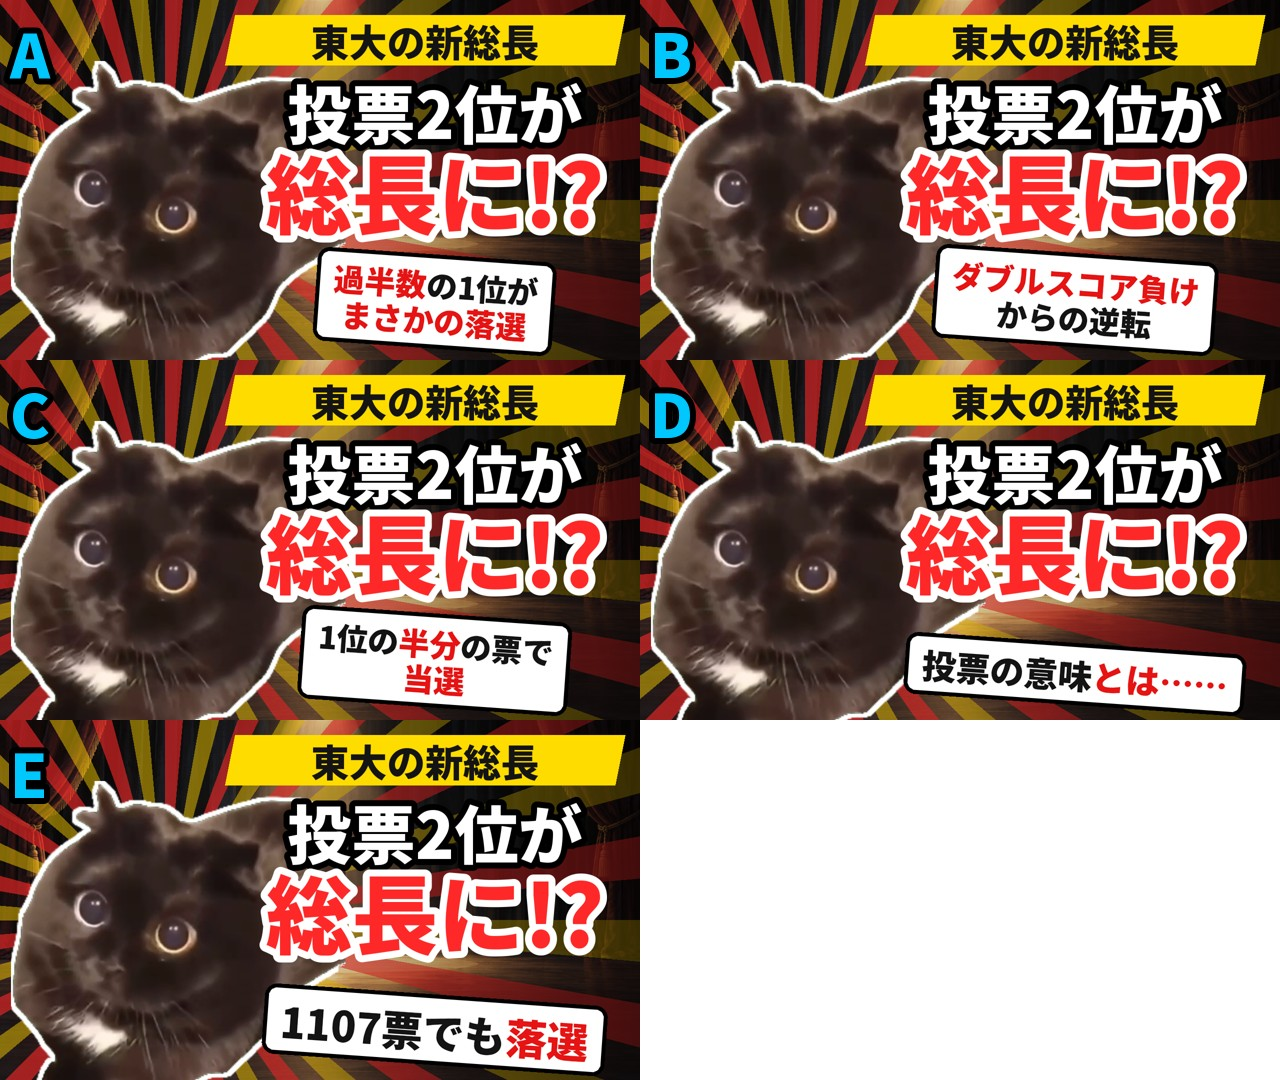
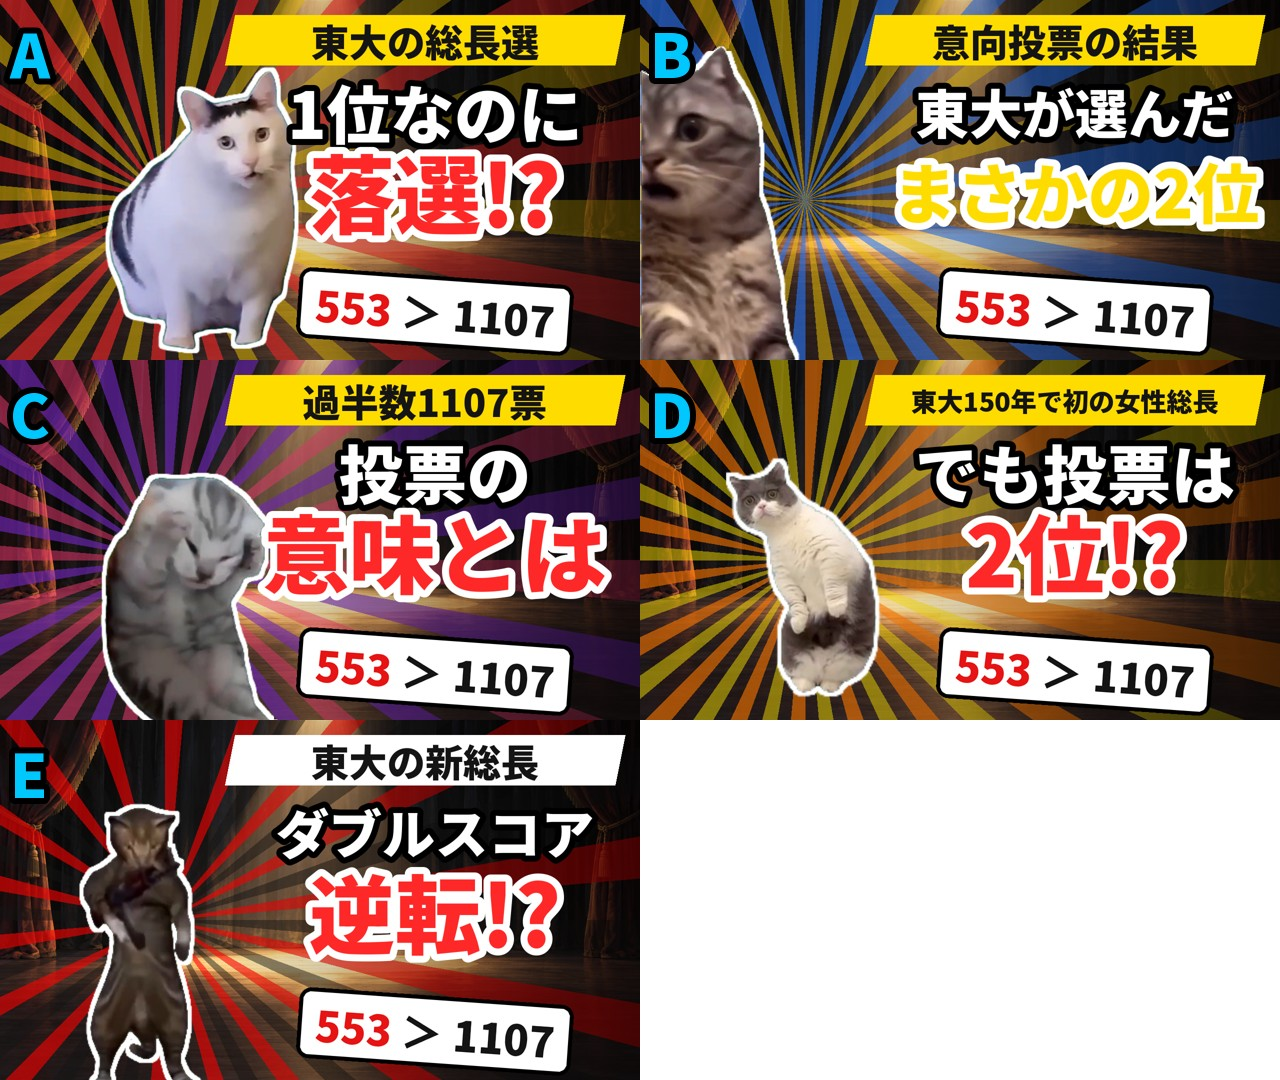
catmeme: 1本目のサムネ別案（553＞1107はそのまま、猫・文言・色を変えた5案）
Claude-Session: https://claude.ai/code/session_011g9CsrfFD5YswfNSvNDW39

diff --git a/catmeme/make_thumb_01.py b/catmeme/make_thumb_01.py
@@ -50,7 +50,9 @@ def text(d, xy, s, size, fill, stroke, stroke_fill, anchor="la"):
 RED = (230, 20, 20)
 
 
-def main(badge_parts=(("553", 1), (" ＞ ", 0), ("1107", 0)), out=OUT):
+def main(badge_parts=(("553", 1), (" ＞ ", 0), ("1107", 0)), out=OUT, cat=("surprise_big_pupils_cat", 0.6, False),
+         band="東大の新総長", line1="投票2位が", line2="総長に!?", ray_cols=((255, 40, 40), (255, 210, 0)),
+         line2_color=(255, 40, 40), band_color=(255, 220, 0), cat_left=False):
     bg = Image.open(os.path.join(HERE, "backgrounds", "01_todai", "bg06_spotlight.png")).convert("RGB").resize((W, H))
     img = bg.convert("RGBA")
     # 集中線（赤と黄色の放射）
@@ -61,7 +63,7 @@ def main(badge_parts=(("553", 1), (" ＞ ", 0), ("1107", 0)), out=OUT):
         a0 = np.deg2rad(i * 10)
         a1 = np.deg2rad(i * 10 + 5)
         r = 1600
-        col = (255, 40, 40, 150) if i % 2 else (255, 210, 0, 120)
+        col = (*ray_cols[0], 150) if i % 2 else (*ray_cols[1], 120)
         rd.polygon([(cx, cy), (cx + r * np.cos(a0), cy + r * np.sin(a0)), (cx + r * np.cos(a1), cy + r * np.sin(a1))], fill=col)
     img.alpha_composite(rays)
     # 右側を暗くして文字を読みやすく
@@ -72,16 +74,16 @@ def main(badge_parts=(("553", 1), (" ＞ ", 0), ("1107", 0)), out=OUT):
     img.alpha_composite(shade)
 
     # 猫（驚く猫を大きく）
-    cat = outline(cat_img("surprise_big_pupils_cat", 0.6, 640), 8, (255, 255, 255, 255))
-    img.alpha_composite(cat, (max(0, 330 - cat.width // 2), H - cat.height + 20))
+    cat = outline(cat_img(cat[0], cat[1], 640, cat[2]), 8, (255, 255, 255, 255))
+    img.alpha_composite(cat, (0 if cat_left else max(0, 330 - cat.width // 2), H - cat.height + (0 if cat_left else 20)))
 
     d = ImageDraw.Draw(img)
     # 上の黄色い帯
-    d.polygon([(470, 30), (1250, 30), (1230, 130), (450, 130)], fill=(255, 220, 0))
-    text(d, (850, 80), "東大の新総長", 76, (20, 20, 20), 0, None, anchor="mm")
+    d.polygon([(470, 30), (1250, 30), (1230, 130), (450, 130)], fill=band_color)
+    text(d, (850, 80), band, 76 if len(band) <= 9 else int(76 * 9 / len(band)), (20, 20, 20), 0, None, anchor="mm")
     # メインの文字
-    text(d, (870, 222), "投票2位が", 128, (255, 255, 255), 12, (0, 0, 0), anchor="mm")
-    text(d, (870, 380), "総長に!?", 172, (255, 40, 40), 14, (255, 255, 255), anchor="mm")
+    text(d, (870, 222), line1, 128 if len(line1) <= 5 else int(128 * 5 / len(line1)), (255, 255, 255), 12, (0, 0, 0), anchor="mm")
+    text(d, (870, 380), line2, min(172, int(172 * 740 / d.textlength(line2, font=P.font("black", 172)))), line2_color, 14, (255, 255, 255), anchor="mm")
     # 下の札（赤い部分と黒い部分を並べる。"\n" で2行）
     lines = [[]]
     for t, col in badge_parts:
@@ -113,16 +115,20 @@ def main(badge_parts=(("553", 1), (" ＞ ", 0), ("1107", 0)), out=OUT):
     print("->", out)
 
 
-# 札の文言の別案（1 = 赤くする部分）
+# 札は 553 ＞ 1107 のまま、ほかを変えた案
 VARIANTS = {
-    "a": (("過半数", 1), ("の1位が", 0), ("\n", 0), ("まさかの落選", 1)),
-    "b": (("ダブルスコア負け", 1), ("\n", 0), ("からの逆転", 0)),
-    "c": (("1位の", 0), ("半分", 1), ("の票で", 0), ("\n", 0), ("当選", 1)),
-    "d": (("投票の意味", 0), ("とは……", 1)),
-    "e": (("1107票", 0), ("でも", 0), ("落選", 1)),
+    "f": dict(cat=("huh_huh_cat", 1.0, False), band="東大の総長選", line1="1位なのに", line2="落選!?"),
+    "g": dict(cat=("confused_i_dont_know_cat", 1.5, True), cat_left=True, band="意向投票の結果", line1="東大が選んだ", line2="まさかの2位",
+              ray_cols=((40, 120, 255), (255, 210, 0)), line2_color=(255, 220, 0)),
+    "h": dict(cat=("despair_dramatic_kitten", 1.0, False), band="過半数1107票", line1="投票の", line2="意味とは",
+              ray_cols=((120, 40, 200), (255, 60, 120))),
+    "i": dict(cat=("peek_what_happen_cat", 1.0, False), band="東大150年で初の女性総長", line1="でも投票は", line2="2位!?",
+              ray_cols=((255, 120, 0), (255, 230, 0))),
+    "j": dict(cat=("angry_shooting_cat", 1.0, False), band="東大の新総長", line1="ダブルスコア", line2="逆転!?",
+              ray_cols=((255, 0, 0), (20, 20, 20)), band_color=(255, 255, 255)),
 }
 
 if __name__ == "__main__":
     main()
     for k, v in VARIANTS.items():
-        main(v, OUT.replace(".png", f"_{k}.png"))
+        main(out=OUT.replace(".png", f"_{k}.png"), **v)
